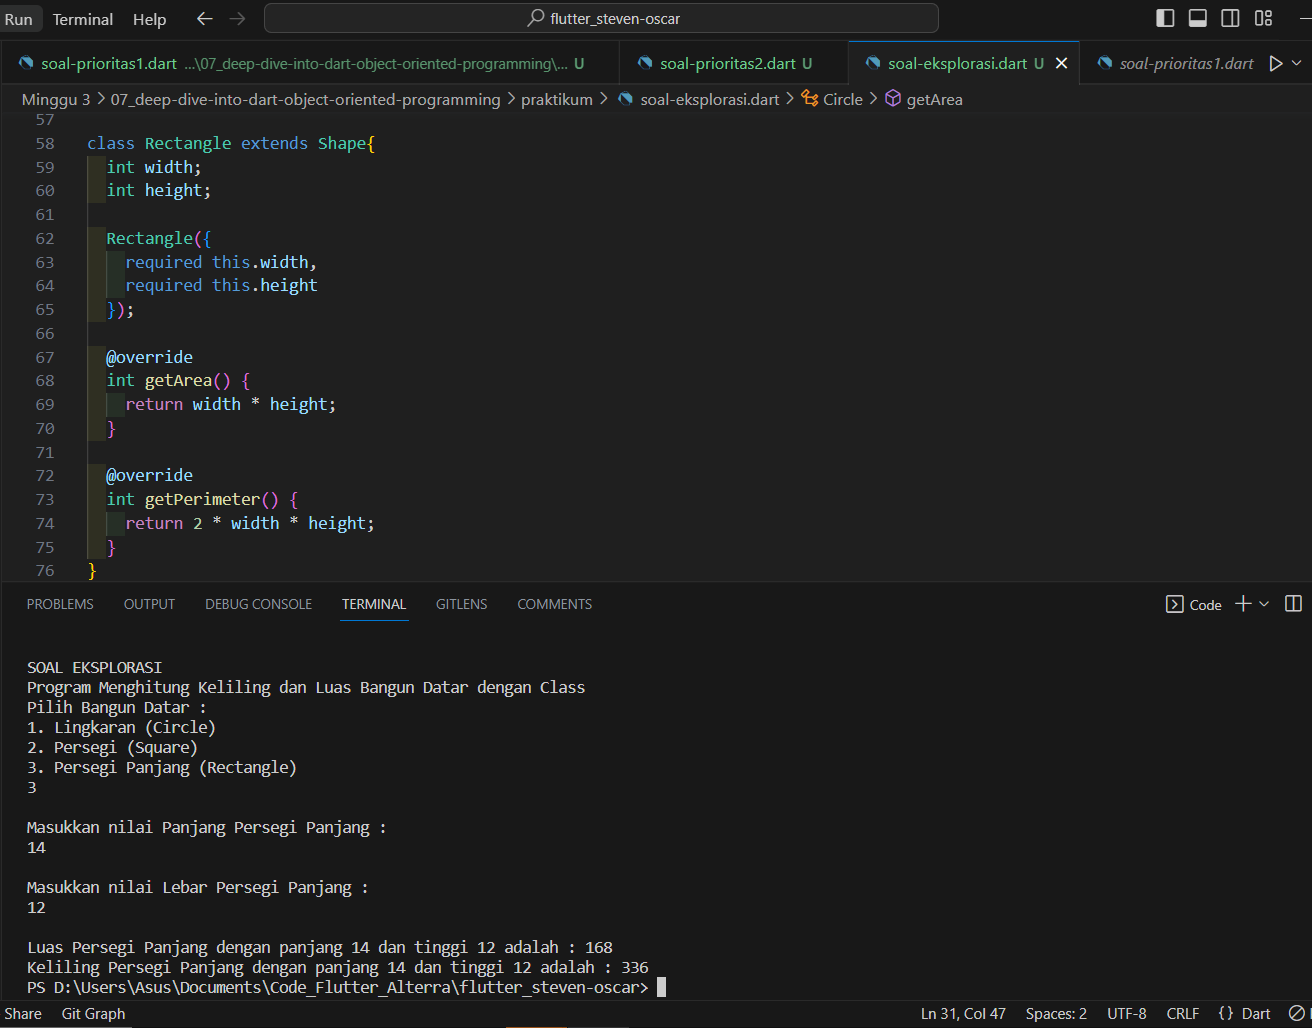
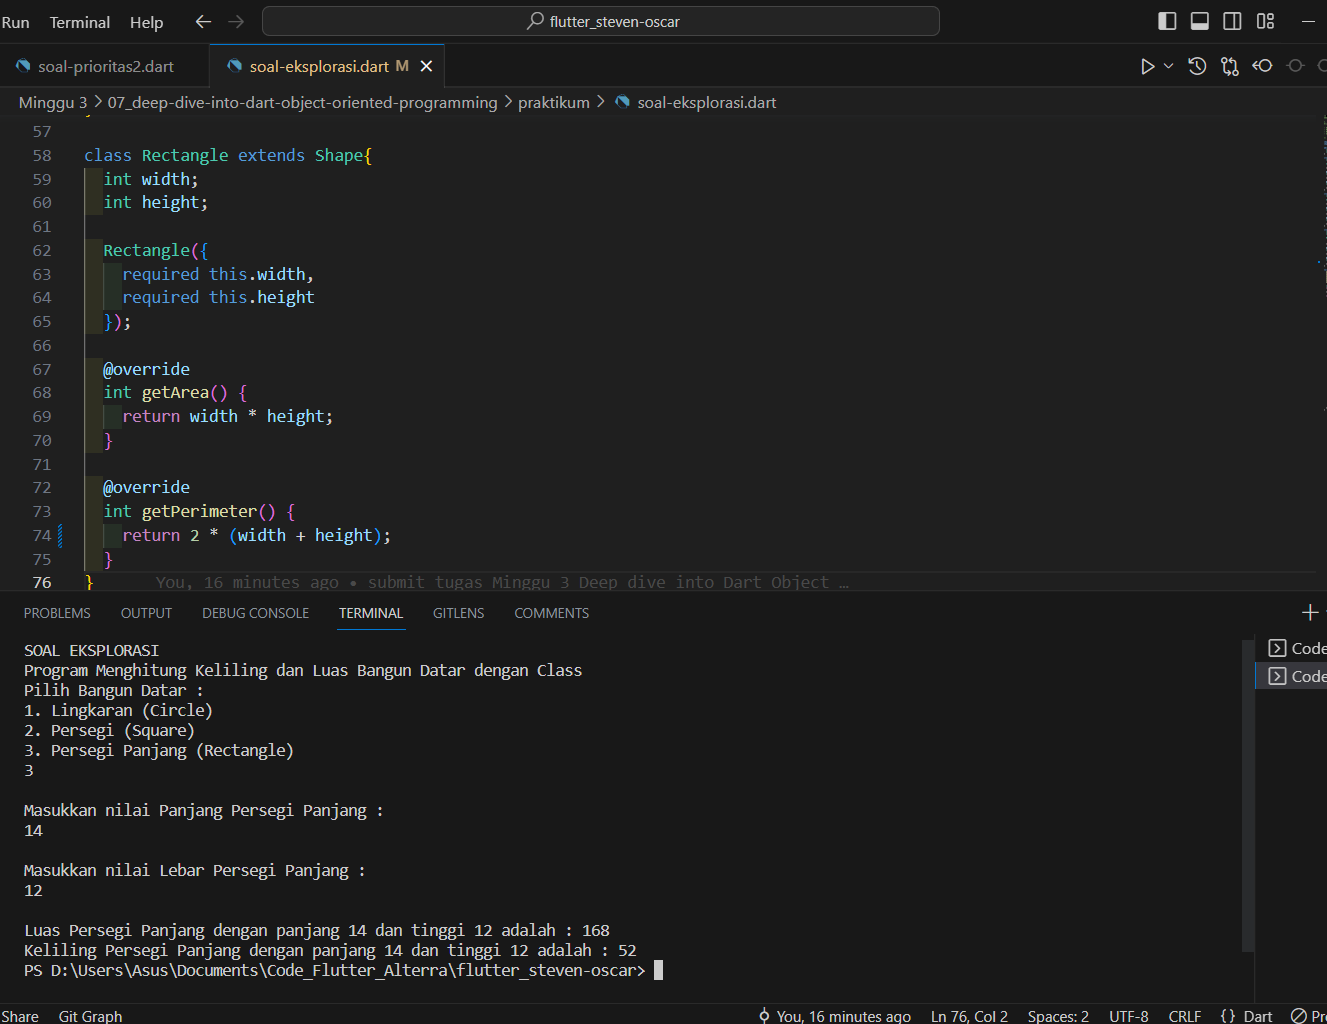
fix rumus keliling persegi panjang

diff --git a/Minggu 3/07_deep-dive-into-dart-object-oriented-programming/praktikum/soal-eksplorasi.dart b/Minggu 3/07_deep-dive-into-dart-object-oriented-programming/praktikum/soal-eksplorasi.dart
@@ -71,7 +71,7 @@ class Rectangle extends Shape{
 
   @override
   int getPerimeter() {
-    return 2 * width * height;
+    return 2 * (width + height);
   }
 }
 
